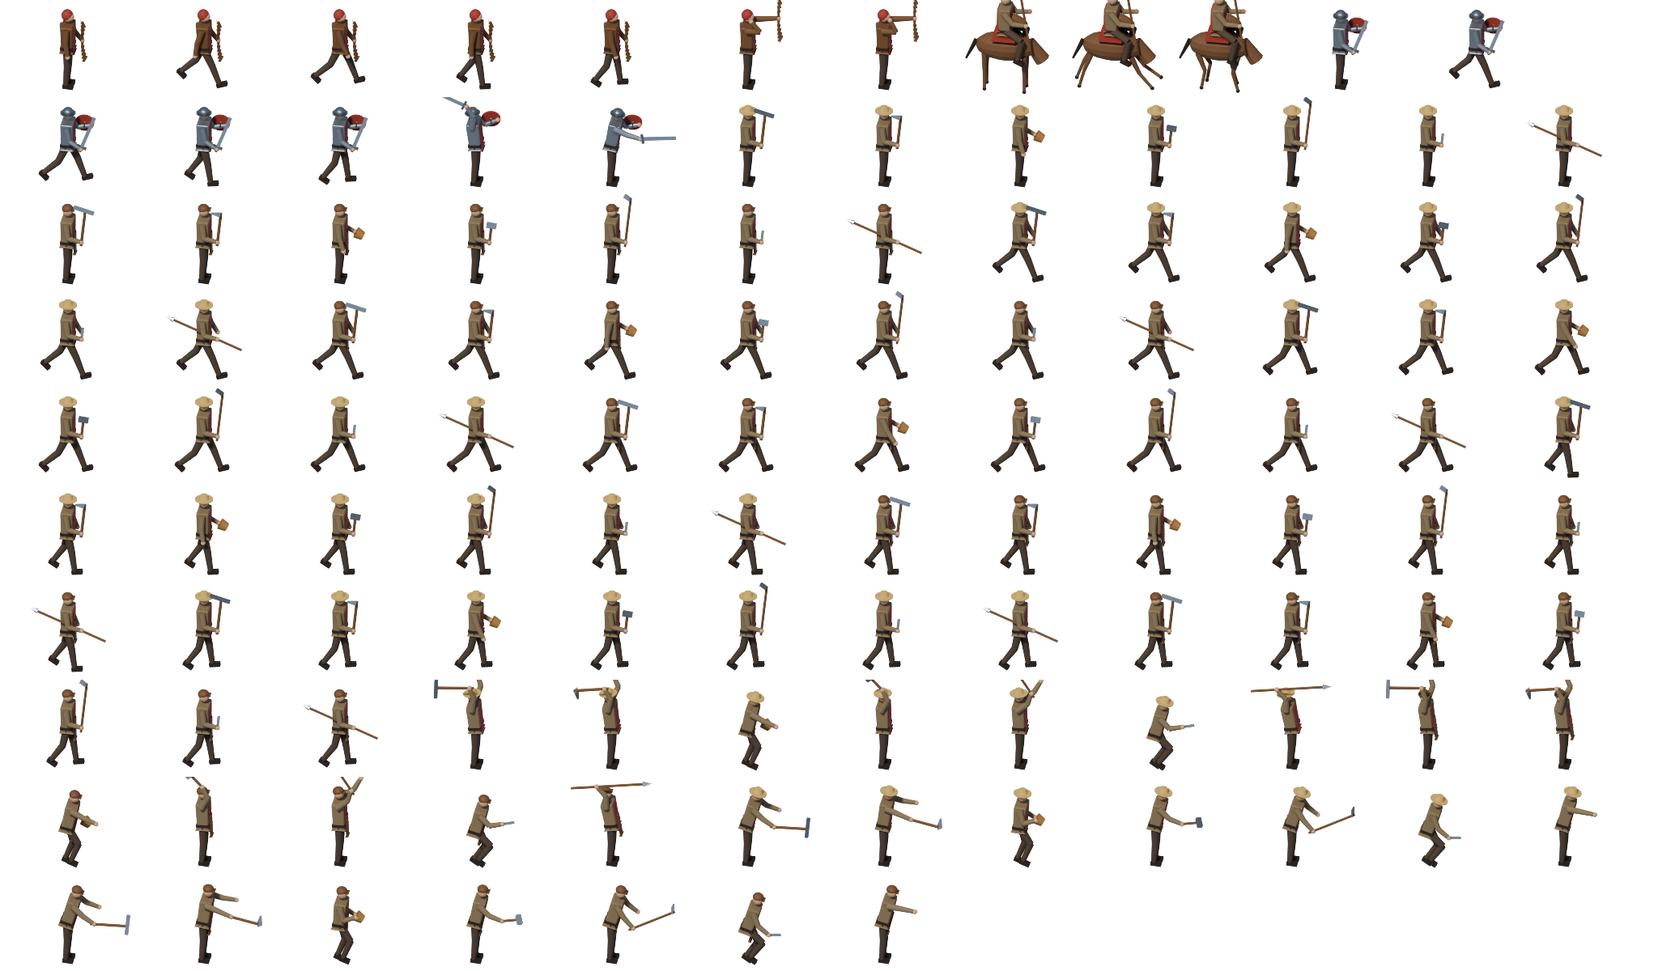
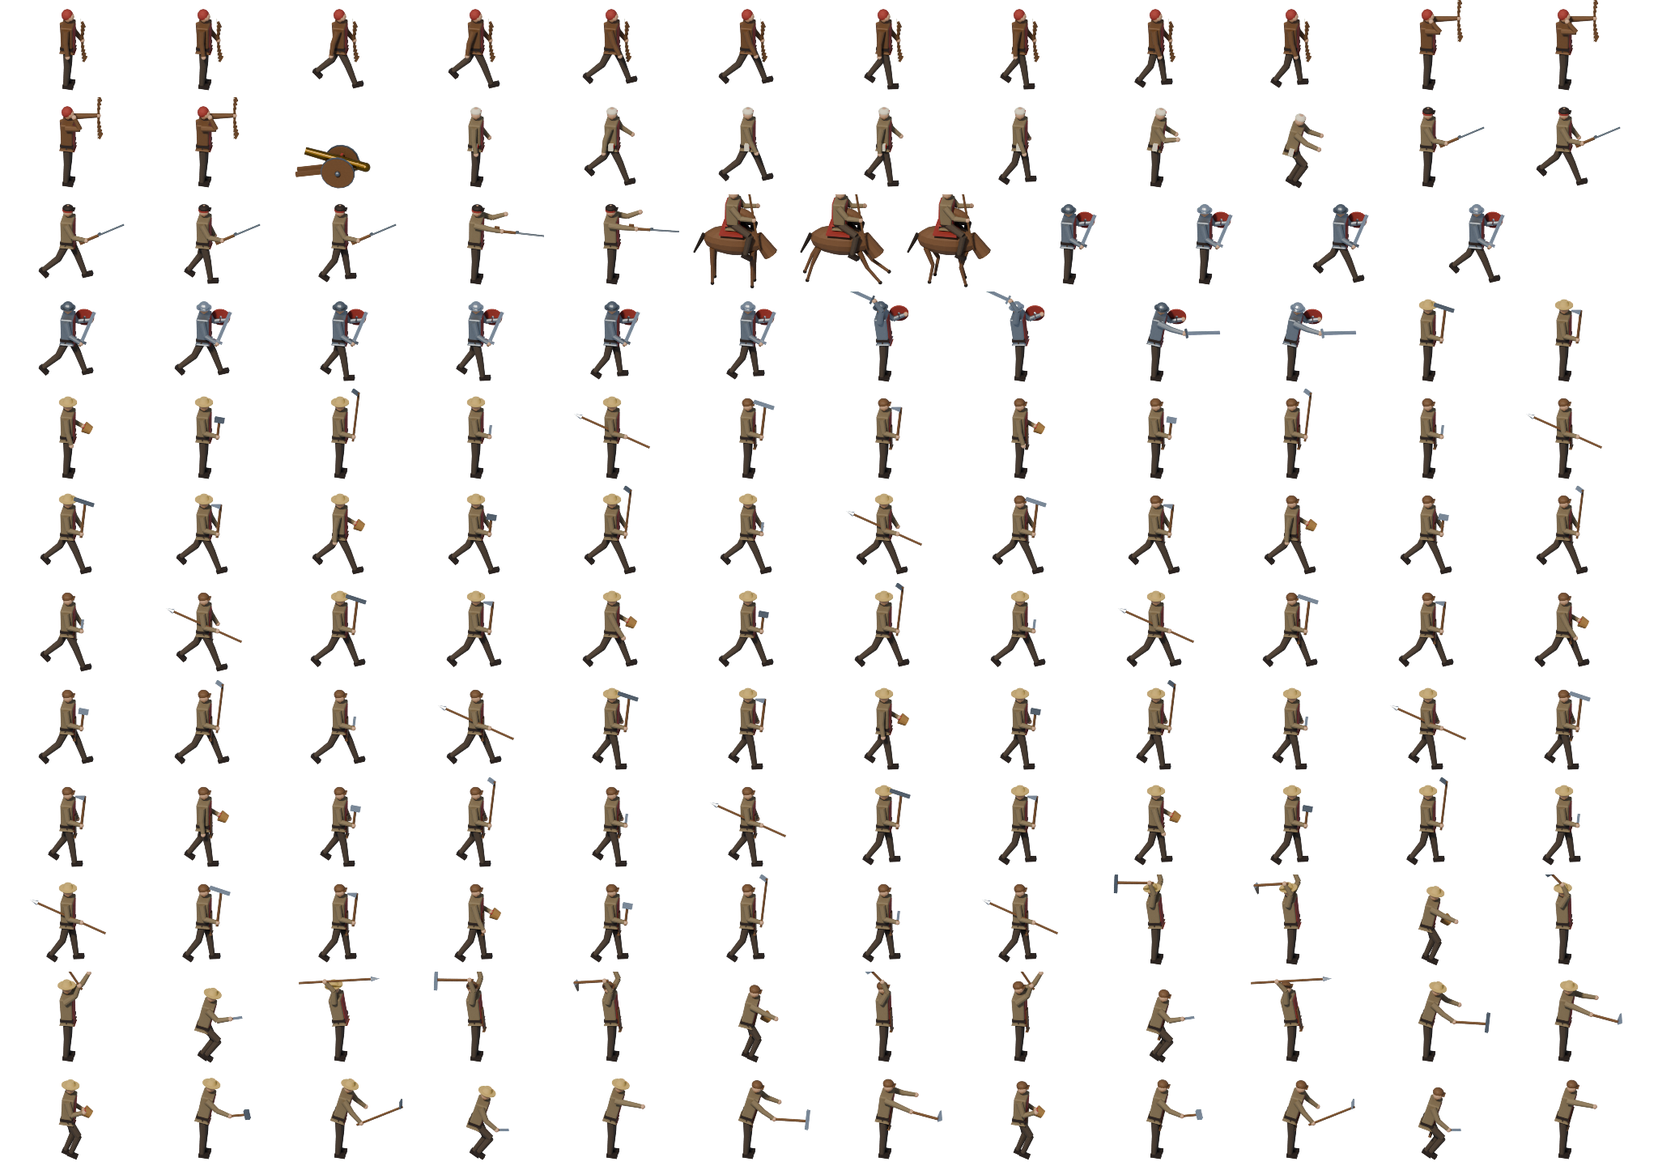
v24 - 3D-rendered Industrial Age
- every building gets an Industrial style: brick walls with stone quoins, slate roofs, iron window frames
- new buildings: coal power plant (smokestack, coal heap, transformer yard), workshop (sawtooth roof, gear sign)
- new units: rifleman (aims and fires), medic (satchel, kneels to treat), field cannon
- Iron Weapons now gives soldiers and archers a rendered steel look

Claude-Session: https://claude.ai/code/session_01CqFksrvwUryoHhnRiJVZRy

diff --git a/src/config.js b/src/config.js
@@ -1,6 +1,6 @@
 // Global settings for the game. Change numbers here to tweak the game.
 
-export const GAME_VERSION = 'v23';
+export const GAME_VERSION = 'v24';
 export const TICK_MS = 50;   // the simulation moves in fixed 50 ms steps (20 per second)
 export const TILE = 32;      // size of one map tile in pixels
 // Map size in tiles. 1 v 1 games use 64 × 64; games with 3–4 sides use a bigger map (see mapSizeFor).

diff --git a/sw.js b/sw.js
@@ -1,7 +1,7 @@
 // Service worker: lets the installed game run offline.
 // Strategy: always try the network first (so updates show up straight away), fall back to the saved copy when offline.
 // Bump CACHE when you want old offline copies thrown away.
-const CACHE = 'age-of-emissions-v21';
+const CACHE = 'age-of-emissions-v22';
 const FILES = [
   './',
   'index.html',

diff --git a/tools/render_buildings.py b/tools/render_buildings.py
@@ -89,9 +89,15 @@ def wood(name, rgb, scale=8):
     return m
 
 
+STYLE = 0  # 0 Coal Age (timber and plaster), 1 Industrial (brick, slate and iron)
+
+
 def make_materials(team_hex):
     lin = lambda h: srgb(h)
     return {
+        'brick': bricks('brick', lin(0xa8684a), lin(0x865240), lin(0x6a5048), scale=7, row=0.16, width=0.42, bump=0.5),
+        'glassb': principled('glassb', lin(0x9ab2c0), 0.25)[0],
+        'ironwork': principled('ironwork', lin(0x3a3e42), 0.5, )[0],
         'plaster': noisy('plaster', lin(0xc9b998), var=0.12, scale=18, bump=0.15),
         'timber': wood('timber', lin(0x4a3220)),
         'plank': wood('plank', lin(0x6e5236), scale=22),
@@ -207,10 +213,10 @@ def house(M):
     box((x0 + 0.12, y1 + 0.03, 0.12 + H * 0.55), (0.14, 0.02, 0.3), M['team'])
     # roof (ridge along x) with gable ends
     rise = 0.62
-    gable_roof(x0, x1, y0, y1, zt, rise, M['roof'], along='x')
+    gable_roof(x0, x1, y0, y1, zt, rise, roof_mat(M), along='x')
     for x in (x0, x1):
-        gable_end(x, y0, y1, zt, rise, M['plaster'], along='x')
-    box(((x0 + x1) / 2, (y0 + y1) / 2, zt + rise + 0.05), (x1 - x0 + 0.4, 0.07, 0.07), M['timber'])
+        gable_end(x, y0, y1, zt, rise, gable_mat(M), along='x')
+    box(((x0 + x1) / 2, (y0 + y1) / 2, zt + rise + 0.05), (x1 - x0 + 0.4, 0.07, 0.07), M['timber'] if STYLE < 1 else M['ironwork'])
     box((x0 + 0.35, y0 + 0.4, zt + 0.55), (0.16, 0.16, 0.6), M['stone'])  # chimney
     # yard clutter
     cyl((x1 + 0.12, y1 + 0.15, 0.09), 0.07, 0.18, M['plank'], v=12)
@@ -259,7 +265,7 @@ def mill(M):
     cx, cy = 1.0, -1.0
     cyl((cx, cy, 0.06), 0.62, 0.12, M['stone'], v=28)
     o = cone((cx, cy, 0.12 + 0.55), 0.48, 0.38, 1.1, M['plaster'], v=28)  # whitewashed stone
-    cone((cx, cy, 1.22 + 0.25), 0.46, 0.02, 0.5, M['thatch'], v=28)
+    cone((cx, cy, 1.22 + 0.25), 0.46, 0.02, 0.5, roof_mat(M, 'thatch'), v=28)
     # door and window facing the camera (towards +x, −y)
     box((cx + 0.33, cy + 0.3, 0.32), (0.06, 0.22, 0.32), M['plank'], rot=(0, 0, 0.75))
     box((cx + 0.3, cy + 0.27, 0.85), (0.04, 0.12, 0.14), M['window'], rot=(0, 0, 0.75))
@@ -288,7 +294,15 @@ def mill(M):
 
 
 def frame_walls(x0, x1, y0, y1, z0, H, M, bays=2):
-    """Plastered walls in a dark timber frame (posts, rails, a few braces)."""
+    """Walls in the age's style: plaster in a dark timber frame (Coal), or brick with stone sills (Industrial)."""
+    if STYLE >= 1:
+        box(((x0 + x1) / 2, (y0 + y1) / 2, z0 + H / 2), (x1 - x0, y1 - y0, H), M['brick'])
+        # stone quoins on the corners and a sill course
+        for x in (x0, x1):
+            for y in (y0, y1):
+                box((x, y, z0 + H / 2), (0.07, 0.07, H), M['stone'])
+        box(((x0 + x1) / 2, (y0 + y1) / 2, z0 + H - 0.03), (x1 - x0 + 0.05, y1 - y0 + 0.05, 0.06), M['stone'])
+        return
     box(((x0 + x1) / 2, (y0 + y1) / 2, z0 + H / 2), (x1 - x0, y1 - y0, H), M['plaster'])
     for i in range(bays + 1):
         x = x0 + (x1 - x0) * i / bays
@@ -306,16 +320,30 @@ def frame_walls(x0, x1, y0, y1, z0, H, M, bays=2):
         box((x, (y0 + y1) / 2, z0 + H * 0.5), (0.052, y1 - y0, 0.035), M['timber'])
 
 
+def roof_mat(M, kind='roof'):
+    return M['slate'] if STYLE >= 1 else M[kind]
+
+
+def gable_mat(M):
+    return M['brick'] if STYLE >= 1 else M['plaster']
+
+
 def windows(xs, y, z, M, face='y'):
     for x in xs:
         if face == 'y':
-            box((x, y, z), (0.16, 0.03, 0.14), M['window']); box((x, y + 0.015, z), (0.025, 0.02, 0.15), M['timber'])
-            for sx in (-1, 1):
-                box((x + sx * 0.12, y + 0.01, z), (0.07, 0.02, 0.16), M['plank'])  # shutters
+            box((x, y, z), (0.16, 0.03, 0.18 if STYLE >= 1 else 0.14), M['window']); box((x, y + 0.015, z), (0.025, 0.02, 0.19 if STYLE >= 1 else 0.15), M['timber' if STYLE < 1 else 'ironwork'])
+            if STYLE >= 1:
+                box((x, y + 0.01, z - 0.11), (0.2, 0.03, 0.03), M['stone'])  # sill
+            else:
+                for sx in (-1, 1):
+                    box((x + sx * 0.12, y + 0.01, z), (0.07, 0.02, 0.16), M['plank'])  # shutters
         else:
-            box((y, x, z), (0.03, 0.16, 0.14), M['window']); box((y + 0.015, x, z), (0.02, 0.025, 0.15), M['timber'])
-            for sx in (-1, 1):
-                box((y + 0.01, x + sx * 0.12, z), (0.02, 0.07, 0.16), M['plank'])
+            box((y, x, z), (0.03, 0.16, 0.18 if STYLE >= 1 else 0.14), M['window']); box((y + 0.015, x, z), (0.02, 0.025, 0.19 if STYLE >= 1 else 0.15), M['timber' if STYLE < 1 else 'ironwork'])
+            if STYLE >= 1:
+                box((y + 0.01, x, z - 0.11), (0.03, 0.2, 0.03), M['stone'])
+            else:
+                for sx in (-1, 1):
+                    box((y + 0.01, x + sx * 0.12, z), (0.02, 0.07, 0.16), M['plank'])
 
 
 def battlements(cx, cy, r, z, M, n=10, round_=True, w=None, d=None):
@@ -373,9 +401,9 @@ def town_centre(M):
     arch_door(1.5, y1 + 0.03, 0.14, M, w=0.36, h=0.5)
     for x in (0.8, 2.2):
         box((x, y1 + 0.05, 0.75), (0.14, 0.02, 0.42), M['team'])
-    gable_roof(x0, x1, y0, y1, zt, 0.75, M['slate'], along='x')
+    gable_roof(x0, x1, y0, y1, zt, 0.75, roof_mat(M, 'slate'), along='x')
     for x in (x0, x1):
-        gable_end(x, y0, y1, zt, 0.75, M['plaster'], along='x')
+        gable_end(x, y0, y1, zt, 0.75, gable_mat(M), along='x')
     box(((x0 + x1) / 2, (y0 + y1) / 2, zt + 0.8), (x1 - x0 + 0.4, 0.08, 0.08), M['timber'])
     M2 = dict(M); M2['team_roof'] = M['team']
     round_tower(0.75, -0.75, 0.32, 2.3, M2)
@@ -401,7 +429,7 @@ def barracks(M):
     arch_door(x1 + 0.03, (y0 + y1) / 2, 0.1, M, w=0.4, h=0.5, face='x')
     for y in ((y0 + y1) / 2 - 0.4, (y0 + y1) / 2 + 0.4):
         box((x1 + 0.05, y, 0.6), (0.02, 0.16, 0.44), M['team'])
-    gable_roof(x0, x1, y0, y1, zt, 0.7, M['shingle'], over=0.15, along='x')
+    gable_roof(x0, x1, y0, y1, zt, 0.7, roof_mat(M, 'shingle'), over=0.15, along='x')
     for x in (x0, x1):
         gable_end(x, y0, y1, zt, 0.7, M['stone'], along='x')
     # the yard: a weapon rack, a straw training dummy, an archery target
@@ -428,9 +456,9 @@ def market(M):
     box((1.5, -1.5, 0.05), (2.9, 2.9, 0.1), M['paving'])
     # a small tiled house at the back
     frame_walls(0.25, 1.25, -1.25, -0.25, 0.1, 0.55, M, bays=2)
-    gable_roof(0.25, 1.25, -1.25, -0.25, 0.65, 0.45, M['roof'], along='y')
+    gable_roof(0.25, 1.25, -1.25, -0.25, 0.65, 0.45, roof_mat(M), along='y')
     for y in (-1.25, -0.25):
-        gable_end(y, 0.25, 1.25, 0.65, 0.45, M['plaster'], along='y')
+        gable_end(y, 0.25, 1.25, 0.65, 0.45, gable_mat(M), along='y')
     windows([0.75], -0.23, 0.45, M)
     # three striped stalls: one in the team colour, two in market colours
     def stall(cx, cy, stripe):
@@ -472,9 +500,9 @@ def fishing_dock(M):
         for y in (-0.1, -1.0, -1.9):
             cyl((x, y, 0.0), 0.04, 0.3, M['timber'], v=8)
     frame_walls(0.25, 1.05, -1.0, -0.25, 0.13, 0.5, M, bays=2)
-    gable_roof(0.25, 1.05, -1.0, -0.25, 0.63, 0.35, M['shingle'], along='x')
+    gable_roof(0.25, 1.05, -1.0, -0.25, 0.63, 0.35, roof_mat(M, 'shingle'), along='x')
     for x in (0.25, 1.05):
-        gable_end(x, -1.0, -0.25, 0.63, 0.35, M['plaster'], along='x')
+        gable_end(x, -1.0, -0.25, 0.63, 0.35, gable_mat(M), along='x')
     for x in (1.35, 1.75):
         cyl((x, -0.4, 0.4), 0.015, 0.55, M['timber'], v=6)
     net = mesh([(1.35, -0.4, 0.65), (1.75, -0.4, 0.65), (1.75, -0.4, 0.25), (1.35, -0.4, 0.25)], [(0, 1, 2, 3)], M['straw'])
@@ -485,9 +513,78 @@ def fishing_dock(M):
     box((0.6, -0.25, 0.4), (0.02, 0.12, 0.2), M['team'])
 
 
+def smokestack(x, y, z0, h, M, r=0.1):
+    cyl((x, y, z0 + h / 2), r, h, M['brick'], v=14)
+    cyl((x, y, z0 + h - 0.04), r + 0.03, 0.08, M['stone'], v=14)
+    cyl((x, y, z0 + h + 0.03), r - 0.02, 0.06, M['dark'], v=14)
+
+
+def power_plant(M):
+    # a brick generating hall, a tall smokestack, a coal heap with a cart, and a transformer yard
+    box((1.5, -1.5, 0.05), (2.9, 2.9, 0.1), M['paving'])
+    x0, x1, y0, y1 = 0.3, 2.1, -2.3, -0.5
+    frame_walls(x0, x1, y0, y1, 0.1, 0.95, M, bays=3)
+    zt = 1.05
+    # tall arched windows glowing with furnace light
+    for x in (x0 + 0.35, x0 + 0.9, x1 - 0.35):
+        box((x, y1 + 0.02, 0.62), (0.18, 0.03, 0.5), M['window'])
+        cyl((x, y1 + 0.02, 0.87), 0.09, 0.035, M['window'], rot=(math.pi / 2, 0, 0), v=14)
+    arch_door(x1 + 0.03, (y0 + y1) / 2, 0.1, M, w=0.44, h=0.6, face='x')
+    gable_roof(x0, x1, y0, y1, zt, 0.5, roof_mat(M), along='y')
+    for y in (y0, y1):
+        gable_end(y, x0, x1, zt, 0.5, gable_mat(M), along='y')
+    smokestack(x0 + 0.35, y0 + 0.35, zt + 0.3, 1.5, M, r=0.14)
+    # coal heap and cart
+    o = cone((2.55, -2.45, 0.22), 0.3, 0.02, 0.44, M['coal'], v=10); o.rotation_euler = (0, 0, 0.3)
+    box((2.5, -1.7, 0.12), (0.26, 0.16, 0.12), M['metal'])
+    box((2.5, -1.7, 0.19), (0.24, 0.14, 0.03), M['coal'])
+    # transformer yard: two cylinders with iron frames behind a fence
+    for (tx, ty) in ((2.55, -0.65), (2.55, -1.1)):
+        cyl((tx, ty, 0.22), 0.1, 0.36, M['metal'], v=12)
+        box((tx, ty, 0.44), (0.16, 0.16, 0.03), M['ironwork'])
+    for k in range(5):
+        box((2.3, -0.45 - k * 0.22, 0.12), (0.02, 0.02, 0.24), M['ironwork'])
+    box((2.3, -0.9, 0.22), (0.02, 0.92, 0.02), M['ironwork'])
+    box((x0 + 0.1, y1 + 0.04, 0.7), (0.14, 0.02, 0.4), M['team'])
+
+
+def workshop(M):
+    # a brick workshop with a sawtooth (factory) roof, a gear over the door, crates and barrels
+    box((1.5, -1.5, 0.05), (2.9, 2.9, 0.1), M['paving'])
+    x0, x1, y0, y1 = 0.35, 2.4, -2.4, -0.6
+    frame_walls(x0, x1, y0, y1, 0.1, 0.72, M, bays=3)
+    zt = 0.82
+    windows([x0 + 0.4, (x0 + x1) / 2, x1 - 0.4], y1 + 0.02, 0.55, M)
+    arch_door(x1 + 0.03, (y0 + y1) / 2, 0.1, M, w=0.4, h=0.52, face='x')
+    # sawtooth roof: three slanted teeth with glass on the steep side
+    teeth = 3
+    tw = (x1 - x0) / teeth
+    for k in range(teeth):
+        xa = x0 + k * tw
+        v = [(xa, y0 - 0.1, zt), (xa, y1 + 0.1, zt), (xa + tw, y1 + 0.1, zt + 0.3), (xa + tw, y0 - 0.1, zt + 0.3)]
+        v += [(p[0], p[1], p[2] + 0.05) for p in v]
+        mesh(v, [(0, 1, 2, 3), (4, 5, 6, 7), (0, 1, 5, 4), (1, 2, 6, 5), (2, 3, 7, 6), (3, 0, 4, 7)], roof_mat(M))
+        mesh([(xa + tw, y0 - 0.1, zt), (xa + tw, y1 + 0.1, zt), (xa + tw, y1 + 0.1, zt + 0.3), (xa + tw, y0 - 0.1, zt + 0.3)], [(0, 1, 2, 3)], M['glassb'])
+        for j in range(4):
+            yb = y0 - 0.1 + (j + 0.5) * (y1 - y0 + 0.2) / 4
+            box((xa + tw, yb, zt + 0.15), (0.015, 0.02, 0.3), M['ironwork'])
+    # a big gear on the front gable
+    gx, gy, gz = (x0 + x1) / 2, y1 + 0.04, 0.9
+    cyl((gx, gy, gz), 0.14, 0.03, M['ironwork'], rot=(math.pi / 2, 0, 0), v=12)
+    for k in range(8):
+        a = k * math.pi / 4
+        box((gx + math.cos(a) * 0.16, gy, gz + math.sin(a) * 0.16), (0.05, 0.03, 0.05), M['ironwork'], rot=(0, a, 0))
+    smokestack(x0 + 0.25, y0 + 0.3, zt, 0.9, M, r=0.09)
+    for (bx, by) in ((2.65, -1.2), (2.65, -1.5), (2.62, -1.35)):
+        cyl((bx, by, 0.11), 0.08, 0.22, M['plank'], v=12)
+    box((2.6, -2.2, 0.13), (0.24, 0.24, 0.26), M['plank'])
+    box((x1 - 0.05, y1 + 0.04, 0.62), (0.14, 0.02, 0.36), M['team'])
+
+
 BUILDINGS = {'house': (house, 2, 2), 'lumber_camp': (lumber_camp, 1, 1), 'mining_camp': (mining_camp, 1, 1), 'mill': (mill, 2, 2),
              'town_centre': (town_centre, 3, 3), 'barracks': (barracks, 3, 3), 'tower': (tower, 2, 2), 'market': (market, 3, 3),
-             'wall': (wall, 1, 1), 'gate': (gate, 1, 1), 'fishing_dock': (fishing_dock, 2, 2)}
+             'wall': (wall, 1, 1), 'gate': (gate, 1, 1), 'fishing_dock': (fishing_dock, 2, 2),
+             'power_plant': (power_plant, 3, 3), 'workshop': (workshop, 3, 3)}
 
 
 # ---------- scene, camera and render ----------
@@ -532,6 +629,8 @@ def setup_scene(w, h):
 
 
 def render(btype, style=0, teams=TEAMS):
+    global STYLE
+    STYLE = style
     fn, w, h = BUILDINGS[btype]
     os.makedirs(OUT, exist_ok=True)
     for team, hexv in teams.items():
@@ -557,9 +656,11 @@ def clean_alpha(path):
 
 if __name__ == '__main__':
     args = [a for a in sys.argv[1:] if not a.startswith('-')]
+    styles = [int(a.split('=')[1]) for a in sys.argv[1:] if a.startswith('--style=')] or [0]
     types = args or list(BUILDINGS)
     for t in types:
-        render(t)
+        for st in styles:
+            render(t, style=st)
     # the game reads this list to know which buildings have rendered art
     have = sorted({f.rsplit('_', 1)[0] for f in os.listdir(OUT) if f.endswith('.png')})
     with open(os.path.join(OUT, 'manifest.json'), 'w') as f:

diff --git a/tools/render_units.py b/tools/render_units.py
@@ -51,7 +51,8 @@ def materials(team):
         'iron': mat('iron', 0x7c8288, 0.45, metal=0.9), 'mail': mat('mail', 0x8a9096, 0.5, metal=0.8, noise=0.35, scale=400),
         'leather': mat('leather', 0x6a4a2c, 0.65, noise=0.2), 'wicker': mat('wicker', 0x9a7442, 0.9, noise=0.35, scale=150),
         'berry': mat('berry', 0xa02838, 0.4), 'horse': mat('horse', 0x6b4a2e, 0.7, noise=0.12), 'mane': mat('mane', 0x2a1e14, 0.9),
-        'string': mat('string', 0xe8e0c8, 0.9),
+        'string': mat('string', 0xe8e0c8, 0.9), 'cream': mat('cream', 0xe2d6b6, 0.85, noise=0.08),
+        'red': mat('red', 0xb02828, 0.6),
     }
 
 
@@ -133,6 +134,12 @@ def tool(kind, hand, M):
         bpy.ops.mesh.primitive_cone_add(vertices=6, radius1=0.05, radius2=0, depth=0.18, location=(0, 0, -1.09), rotation=(math.pi, 0, 0))
         add(bpy.context.object, g, M['steel'])
         tip = empty(g, (0, 0, -1.14))
+    elif kind == 'rifle':
+        rod(g, 0.14, -0.3, 0.03, M['wood'])                       # stock
+        cube(g, (0.03, 0, 0.1), (0.14, 0.035, 0.1), M['wood'])    # butt
+        rod(g, -0.28, -0.92, 0.018, M['iron'])                    # barrel
+        cube(g, (0.02, 0, -0.34), (0.05, 0.02, 0.06), M['iron'])  # lock
+        tip = empty(g, (0, 0, -0.95))
     elif kind == 'sword':
         rod(g, 0.06, -0.04, 0.026, M['leather'])
         cube(g, (0, 0, -0.05), (0.2, 0.05, 0.04), M['iron'])
@@ -197,6 +204,14 @@ class Person:
         elif kind == 'archer':  # a team-coloured hood
             ball(h, (-0.015, 0, 0.02), 0.122, M['team'], sz=1.05)
             ball(h, (0.03, 0, -0.01), 0.1, M['skin'])
+        elif kind == 'rifleman':  # a peaked cap with a team band
+            ball(h, (0, 0, 0.055), 0.115, M['boots'], sz=0.6)
+            cube(h, (0.1, 0, 0.035), (0.09, 0.14, 0.018), M['boots'])
+            rod(h, 0.0, 0.035, 0.117, M['team'], v=16)
+        elif kind == 'medic':  # a pale field cap with a red cross
+            ball(h, (0, 0, 0.045), 0.117, M['cream'], sz=0.65)
+            cube(h, (0.105, 0.0, 0.06), (0.012, 0.016, 0.05), M['red'])
+            cube(h, (0.105, 0.0, 0.06), (0.012, 0.05, 0.016), M['red'])
         else:
             ball(h, (-0.02, 0, 0.04), 0.108, M['hair'], sz=0.9)
 
@@ -218,6 +233,15 @@ class Person:
             add(bpy.context.object, sh, M['team'])
             bpy.ops.mesh.primitive_uv_sphere_add(segments=12, ring_count=6, radius=0.05, location=(0, 0.02, 0)); add(bpy.context.object, sh, M['iron'])
             rod(sh, -0.2, 0.2, 0.012, M['iron']).rotation_euler = (math.pi / 2, 0, 0)
+        elif kind == 'rifleman':
+            self.toolgrip, self.tip = tool('rifle', R, M)
+        elif kind == 'medic':
+            # a satchel with a red cross on a shoulder strap
+            sa = cube(self.spine, (0.02, -0.2, 0.02), (0.1, 0.16, 0.14), M['cream'])
+            cube(self.spine, (0.08, -0.2, 0.02), (0.012, 0.025, 0.09), M['red'])
+            cube(self.spine, (0.08, -0.2, 0.02), (0.012, 0.09, 0.025), M['red'])
+            strap = cube(self.spine, (0, 0.02, 0.3), (0.26, 0.05, 0.03), M['leather'])
+            strap.rotation_euler = (math.radians(50), 0, 0)
         elif kind == 'archer':
             bow = empty(L)
             for k in range(10):  # a curved bow, upright in the left hand
@@ -290,6 +314,12 @@ WORKER_POSES = {
     'forage': [{'R': (78, 5), 'lean': 12, 'crouch': 0.06}, {'R': (20, 95), 'lean': 4, 'crouch': 0.06}],
 }
 SPECS = {
+    # rifle at port arms; poses: take aim (level), fire
+    'rifleman': {'rest': {'R': (30, 55), 'L': (0, 15), 't': 35, 'holdR': True},
+                 'poses': [{'R': (85, 5), 'L': (70, 38), 't': 4, 'lean': 2}, {'R': (87, 4), 'L': (72, 36), 't': 2, 'lean': -2}]},
+    # reaching into the satchel, then kneeling to treat someone
+    'medic': {'rest': {'R': (0, 12), 'L': (10, 25)},
+              'poses': [{'R': (40, 70), 'L': (20, 40), 'lean': 8}, {'R': (65, 20), 'L': (50, 30), 'lean': 14, 'crouch': 0.12}]},
     'soldier': {'rest': {'R': (15, 45), 'L': (30, 70), 't': 100, 'holdR': True, 'holdL': True},
                 'poses': [{'R': (165, 40), 'L': (35, 75), 't': 35, 'lean': -6}, {'R': (80, 10), 'L': (40, 70), 't': 20, 'lean': 10}]},
     'archer': {'rest': {'R': (0, 10), 'L': (15, 20), 'holdL': True},
@@ -400,6 +430,40 @@ def render_person(utype, team, keys, contacts, tier=0):
                     contacts[job] = contact_of(sc, cam, person.tip, PERSON)
 
 
+# The field cannon: a bronze barrel on a two-wheeled carriage (one frame; vehicles don't animate).
+def render_cannon(team, keys):
+    sc, cam = setup(PERSON)
+    M = materials(team)
+    root = empty(None)
+    root.rotation_euler.z = math.radians(FACING)
+    bronze = mat('bronze', 0x8a6a30, 0.35, metal=1.0)
+    for side, y in ((1, 0.26), (-1, -0.26)):
+        w = empty(root, (0, y, 0.34))
+        bpy.ops.mesh.primitive_cylinder_add(vertices=18, radius=0.34, depth=0.07, location=(0, 0, 0), rotation=(math.pi / 2, 0, 0))
+        add(bpy.context.object, w, M['wood'])
+        bpy.ops.mesh.primitive_cylinder_add(vertices=18, radius=0.36, depth=0.04, location=(0, y * 0.02, 0), rotation=(math.pi / 2, 0, 0))
+        add(bpy.context.object, w, M['iron'])  # tyre
+        for k in range(6):
+            a = k * math.pi / 3
+            cube(w, (math.cos(a) * 0.17, 0.015 * side, math.sin(a) * 0.17), (0.3, 0.025, 0.045), M['wood'], rot=(0, -a, 0))
+        ball(w, (0, 0.045 * side, 0), 0.06, M['iron'])
+    # trail (the carriage beams running back to the ground)
+    for y in (0.1, -0.1):
+        cube(root, (-0.45, y, 0.22), (0.95, 0.07, 0.09), M['wood'], rot=(0, -0.22, 0))
+    cube(root, (0.05, 0, 0.36), (0.3, 0.46, 0.08), M['wood'])  # axle block
+    # barrel, tipped up a little
+    b = empty(root, (0.1, 0, 0.47)); b.rotation_euler = (0, math.radians(-78), 0)
+    bpy.ops.mesh.primitive_cone_add(vertices=20, radius1=0.1, radius2=0.08, depth=0.8, location=(0, 0, 0.45))
+    add(bpy.context.object, b, bronze)
+    rod(b, -0.45, 0.14, 0.095, bronze, v=20)
+    ball(b, (0, 0, -0.45), 0.1, bronze)
+    for z in (-0.3, 0.05):
+        rod(b, z, z + 0.035, 0.115, bronze, v=20)
+    cube(root, (0.02, 0, 0.56), (0.05, 0.3, 0.04), M['team'])  # a team band on the axle
+    k = key('cannon', team, 0)
+    shoot(sc, k); keys.append(k)
+
+
 def render_scout(team, keys):
     sc, cam = setup(RIDER)
     M = materials(team)
@@ -440,8 +504,12 @@ if __name__ == '__main__':
             new = []
             if t == 'scout':
                 render_scout(team, new)
+            elif t == 'cannon':
+                render_cannon(team, new)
             elif t == 'worker1':  # the worker after the Coal Age tool upgrades
                 render_person('worker', team, new, contacts, tier=1)
+            elif t in ('soldier1', 'archer1'):  # the steel look after Iron Weapons
+                render_person(t[:-1], team, new, contacts, tier=1)
             else:
                 render_person(t, team, new, contacts)
             keys.update(new)

diff --git a/README.md b/README.md
@@ -273,7 +273,8 @@ src/scenes/UIScene.js   resource bar, command panel, diamond minimap, climate pa
 - [x] Phase 20¾ – Visual overhaul: AoE2-style proportions and colours, tree sprites, textured ground, rocks, earth under buildings
 - [x] Phase 20⅞ – Harvest stages: trees fall (away from the axe) and leave stumps, berry bushes are stripped and shrink, rocks are mined away one by one, carcasses go down to bones; workers only stand on open ground to work
 - [x] Phase 20⁹⁄₁₀ – 3D-rendered Coal Age: every Coal Age building (except the farm, tree plot, bridge and wind pump) and every Coal Age unit (worker with all seven tools and its upgraded look, soldier, archer, scout on horseback), modelled and rendered in Blender
-- [ ] 3D-rendered Industrial Age, then Modern, Transition and Green Ages (one age at a time)
+- [x] 3D-rendered Industrial Age: every building gets a brick-and-slate Industrial look (stone quoins, iron window frames, sills), two new buildings (coal power plant with a tall smokestack and transformer yard; workshop with a sawtooth factory roof and gear sign), the rifleman, medic and field cannon, and the steel look soldiers and archers get from Iron Weapons
+- [ ] 3D-rendered Modern, Transition and Green Ages (one age at a time)
 - [x] Phase 20¹⁵⁄₁₆ – Performance: off-screen trees leave the scene in blocks, the scene is only re-sorted when something moves to a new row, fog redraws only when sight changes, and ground changes upload only the changed patch of the texture
 - [ ] Phase 21 – Gore update: an optional blood & gore setting (off by default) — blood spatter on hits, bodies that stay on the battlefield longer, more dramatic deaths, scorch marks from explosions
 - [ ] Phase 22 – Playtesting feedback
@@ -306,5 +307,6 @@ The game uses a rendered sprite whenever there is one, and the hand-drawn art ot
 To re-render (needs Blender's Python module: `pip install bpy`, with Python 3.11):
 
     python tools/render_buildings.py                      # all buildings, in all four team colours
+    python tools/render_buildings.py --style=1            # the Industrial Age look of each building
     python tools/render_units.py worker worker1 soldier archer scout
     python tools/pack_atlases.py                          # pack them into assets/atlas
